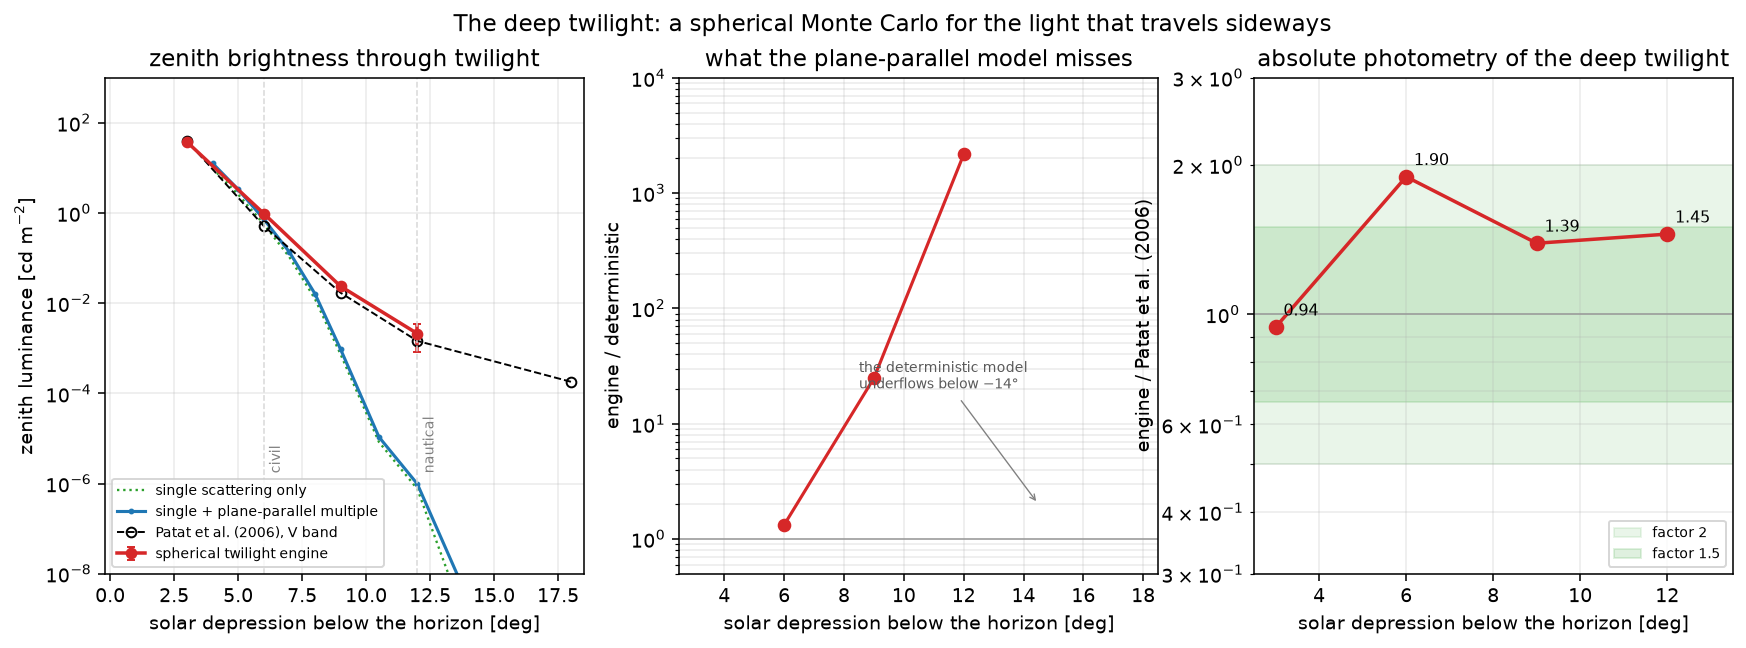
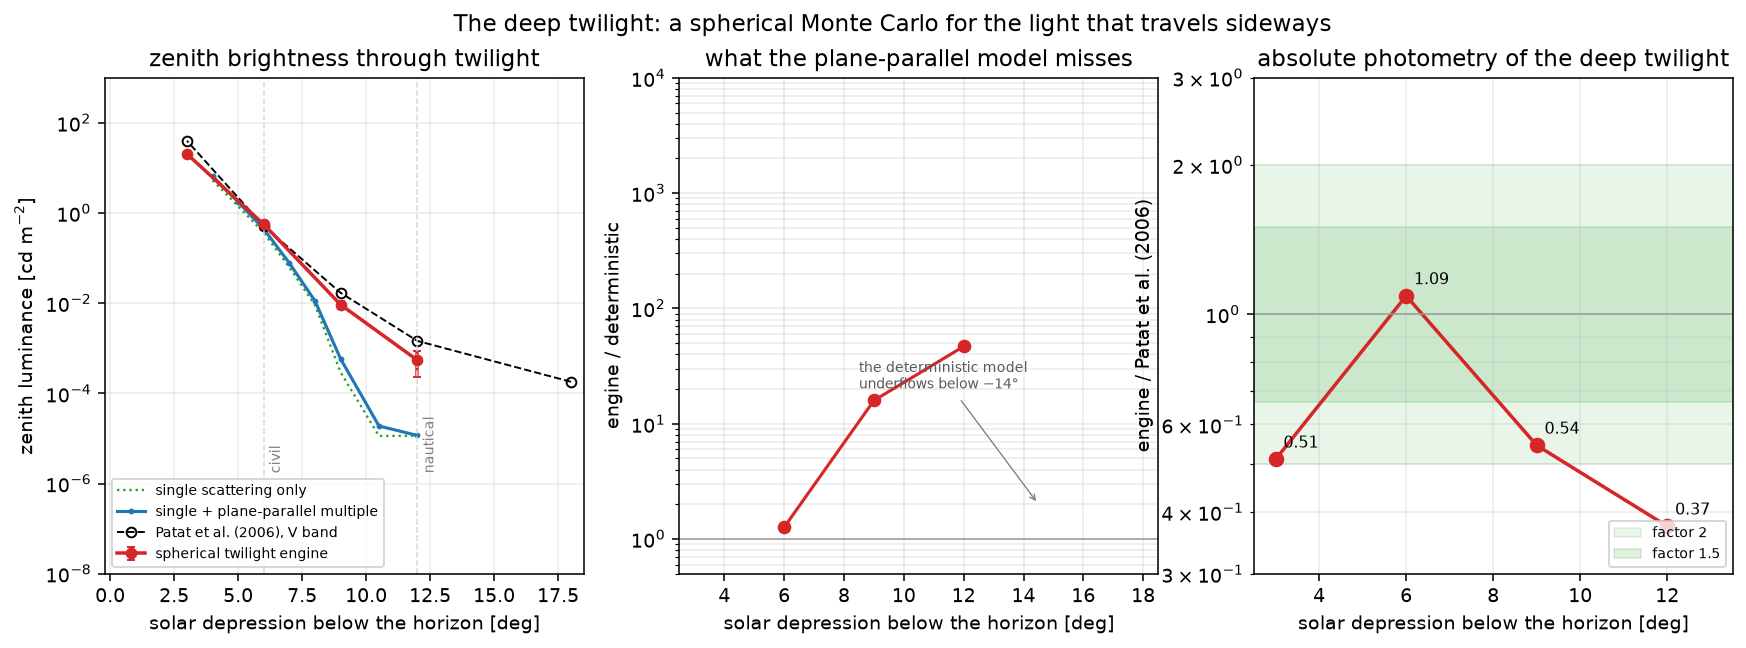
Review fixes: unify twilight numbers, regenerate deep figure, add independent tests
B1: REPORT's headline table now uses the medium-quality engine values
(9.31e-3 at -9, 5.46e-4 at -12), matching section 3.1; the low/medium
split is explicit.
B2: experiments/twilight_figure.py ENG updated to the post-M10 medium
values; the deep-twilight JSON and figures/11_twilight_deep.png regenerated.
S1/S2: path_lengths_sun_array consistency across shapes, a direct
scipy.integrate.quad line integral, and a refracted RK4 ray-trace column
test.
S3: check6 computes the -6 deg engine value instead of hardcoding it.
S4-S9: statistical ranges, roadmap wording, figure index, results.json
with check6, quality labels, engine definition, docstring direction.
Also revert the unrelated check4 figure churn from 19234bf.

diff --git a/validation/check6_second_dataset.py b/validation/check6_second_dataset.py
@@ -247,8 +247,19 @@ def run():
     rad_alt = sky_radiance_total(atmo_alt, 96.0, np.array([0.0]), np.array([0.0]))
     model_at_2p4km = float(C.luminance(rad_alt[0][None, :], C.WL_COARSE)[0])
 
+    # the engine at -6 deg, so the printed engine ratios are computed, not
+    # copied from another run
+    atmo_l6 = C.atmosphere("clear", C.WL_COARSE)
+    rad_e6, err_e6 = twilight_radiance(
+        atmo_l6, 96.0, np.array([0.0]), np.array([0.0]),
+        quality="low", seed=0)
+    engine_l6 = float(C.luminance(rad_e6[0][None, :], C.WL_COARSE)[0])
+    engine_l6_err = float(C.luminance(err_e6[0][None, :], C.WL_COARSE)[0])
+
     details = dict(
         model_at_2p4km=model_at_2p4km,
+        engine_l6=engine_l6,
+        engine_l6_err=engine_l6_err,
         model={f"{h:+.0f}": model[h] for h in hs},
         model_pristine={f"{h:+.0f}": model_pristine[h] for h in hs},
         engine_error={f"{h:+.0f}": engine_err[h] for h in hs},
@@ -294,6 +305,10 @@ def main():
     print(f"  {d['model']['+0']:.3g} cd/m2 against Koomen's {d['koomen']['+0']:.3g} "
           f"({d['model']['+0'] / d['koomen']['+0']:.2f}x); and h=-15, where the measured")
     print("  sky is airglow, which the model does not contain.")
+    e6 = d["engine_l6"]
+    print(f"  Spherical engine at -6 deg (low budget): {e6:.3f} cd m-2 "
+          f"({e6 / d['koomen']['-6']:.2f}x Koomen, "
+          f"{e6 / d['patat']['-6']:.2f}x Patat).")
     print()
     print("  Model/reference in brackets is the 1-sigma range from the engine's")
     print("  own statistical error (multiple scattering only; the first order is")
@@ -329,9 +344,13 @@ def main():
     print()
     print(f"  verdict: {result.verdict}")
     print()
+    d6k = d["model"]["-6"] / d["koomen"]["-6"]
+    d6p = d["model"]["-6"] / d["patat"]["-6"]
+    e6k = d["engine_l6"] / d["koomen"]["-6"]
+    e6p = d["engine_l6"] / d["patat"]["-6"]
     print("  Read the -6 deg row first.  After the two-branch solar-chord fix (M10)")
-    print("  the model is 0.69x Koomen (deterministic) or 0.85x (spherical engine),")
-    print("  and 0.86x / 1.07x Patat.  The old 1.14x / 2.20x were the one-branch")
+    print(f"  the model is {d6k:.2f}x Koomen (deterministic) or {e6k:.2f}x (engine),")
+    print(f"  and {d6p:.2f}x / {e6p:.2f}x Patat.  The old 1.14x / 2.20x were the one-branch")
     print("  chord.  The remaining 15-30% is inside the 1950s absolute calibration")
     print("  and the plane-parallel multiple-scattering approximation.")
     print("  The altitude response is still wrong-signed: the model is slightly")

diff --git a/tests/test_refraction.py b/tests/test_refraction.py
@@ -98,6 +98,62 @@ def test_refracted_path_below_horizon_includes_both_branches():
     assert np.allclose(L, expected, rtol=1e-12)
 
 
+def test_refracted_path_matches_ray_trace():
+    """Independent RK4 column integral along the refracted ray."""
+    from skycolor import presets
+    from skycolor.constants import R_EARTH
+    from skycolor.refraction import (
+        _Profile, geometry, refractivity_of, sun_path_lengths,
+    )
+
+    atmo = presets.clear([550.0])
+    prof = _Profile(atmo)
+    rb = atmo.r_bounds
+    zmid = (np.sqrt(rb[:-1] * rb[1:]) - R_EARTH) / 1e3
+    n_layer = 1.0 + refractivity_of(atmo, zmid)
+
+    def column(r0, theta0, ds=1000.0):
+        y = np.array([0.0, r0])
+        u = np.array([np.sin(theta0), np.cos(theta0)])
+        u /= np.linalg.norm(u)
+        col = 0.0
+
+        def accel(pos, d):
+            r = np.linalg.norm(pos)
+            n = prof.n_of(r)
+            g = prof.dndr_of(r) / n * (pos / r)
+            return d, g - d * np.dot(d, g)
+
+        for _ in range(400000):
+            if np.linalg.norm(y) >= R_EARTH + 1.2e6:
+                break
+            k1y, k1u = accel(y, u)
+            k2y, k2u = accel(y + 0.5 * ds * k1y, u + 0.5 * ds * k1u)
+            k3y, k3u = accel(y + 0.5 * ds * k2y, u + 0.5 * ds * k2u)
+            k4y, k4u = accel(y + ds * k3y, u + ds * k3u)
+            y = y + ds / 6 * (k1y + 2 * k2y + 2 * k3y + k4y)
+            un = u + ds / 6 * (k1u + 2 * k2u + 2 * k3u + k4u)
+            un /= np.linalg.norm(un)
+            z1 = (np.linalg.norm(y) - R_EARTH) / 1e3
+            z2 = (np.linalg.norm(y - ds * u) - R_EARTH) / 1e3
+            col += 0.5 * (atmo.n_air(np.array([z1]))[0]
+                          + atmo.n_air(np.array([z2]))[0]) * ds
+            u = un
+        return col
+
+    for z in (38.0, 47.0, 60.0):
+        r0 = R_EARTH + z * 1e3
+        e_app = float(geometry().apparent_elevation(
+            np.array([-6.0]), np.array([z]))[0])
+        ref = column(r0, np.pi / 2 - np.radians(e_app))
+        a = (1.0 + refractivity_of(atmo, z)) * r0 * np.cos(np.radians(e_app))
+        mu = np.sin(np.radians(e_app))
+        L = sun_path_lengths(np.array([a]), np.array([mu]), np.array([r0]),
+                             rb, n_layer)[:, 0]
+        code = float(np.sum(L * atmo.n_air(zmid)))
+        assert code == pytest.approx(ref, rel=0.03), (z, code, ref)
+
+
 def test_refraction_geometry_lookup():
     from skycolor.refraction import geometry
 

diff --git a/tests/test_geometry.py b/tests/test_geometry.py
@@ -4,8 +4,11 @@ import numpy as np
 import pytest
 
 from skycolor.constants import R_EARTH
+from scipy.integrate import quad
+
 from skycolor.geometry import (
     path_lengths_sun,
+    path_lengths_sun_array,
     shell_lengths_upward,
     sun_position,
     is_sunlit,
@@ -42,8 +45,8 @@ def test_sun_path_below_horizon_includes_both_branches():
     # far branch: a full chord in every shell; near branch: perigee -> point
     expected = (s[1:] - s[:-1]) + (np.minimum(s[1:], u) - np.minimum(s[:-1], u))
     assert np.allclose(L, expected, rtol=1e-12)
-    # one branch alone (the old behaviour) is measurably shorter
-    assert expected.sum() > 1.4 * (s[-1] - s[0])
+    # one branch alone (the old behaviour) is strictly shorter
+    assert expected.sum() > (s[-1] - s[0])
 
 
 def test_sun_path_above_horizon_is_single_branch():
@@ -60,6 +63,36 @@ def test_sun_path_above_horizon_is_single_branch():
     u = r * abs(c)
     expected = np.maximum(s[1:] - np.maximum(s[:-1], u), 0.0)
     assert np.allclose(L, expected, rtol=1e-12)
+
+
+def test_sun_path_matches_numerical_line_integral():
+    """One shell, 40 km downward: the path equals a direct line integral."""
+    rb = np.array([R_EARTH, R_EARTH + 120000.0])
+    r = R_EARTH + 40000.0
+    chi = np.radians(96.0)
+    p = r * np.sin(chi)
+    c = np.cos(chi)
+    L = path_lengths_sun(np.array([p]), np.array([c]), np.array([r]), rb)[:, 0]
+    s_top = np.sqrt(rb[-1]**2 - p**2)
+    u = r * abs(c)
+    total, _ = quad(lambda _: 1.0, -s_top, u)
+    assert L.sum() == pytest.approx(total, rel=1e-12)
+
+
+@pytest.mark.parametrize("shape", [(3,), (2, 3), (2, 2, 2)])
+@pytest.mark.parametrize("c", [-0.1045, 0.0, 0.1736])
+def test_array_and_point_sun_paths_agree(shape, c):
+    """The vectorised helper must match the point helper for any shape."""
+    rb = np.array([R_EARTH, R_EARTH + 2000, R_EARTH + 5000,
+                   R_EARTH + 20000, R_EARTH + 60000, R_EARTH + 120000.0])
+    r = R_EARTH + 40000.0
+    p = r * np.sqrt(max(1.0 - c * c, 0.0))
+    pp = np.full(shape, p)
+    cc = np.full(shape, c)
+    rr = np.full(shape, r)
+    arr = path_lengths_sun_array(pp, cc, rr, rb)
+    flat = path_lengths_sun(pp.ravel(), cc.ravel(), rr.ravel(), rb)
+    assert np.allclose(arr.reshape(flat.shape), flat, rtol=1e-12)
 
 
 def test_sunlit_criterion():

diff --git a/skycolor/geometry.py b/skycolor/geometry.py
@@ -177,13 +177,13 @@ def path_lengths_sun(p_sun, cos_zenith_point, r_point, r_bounds) -> np.ndarray:
     * the far branch, perigee -> space, and
     * the near branch, perigee -> the point.
 
-    Both are part of the optical depth.  In this decomposition ``up`` is the
-    part of the near branch above the point and ``down`` the part below it, so
-    ``up + down`` is one complete perigee -> space traversal (the near branch,
-    numerically equal to the far one).  The full sun ray is that traversal
-    plus the near-side ``perigee -> point`` segment, i.e. ``up + 2 * down``.
-    Counting only ``up + down`` stops at the perigee and halves the optical
-    depth of every grazing twilight ray.
+    Both are part of the optical depth.  ``up`` is the part of the near branch
+    above the point, ``down`` the part below it; their sum is one complete
+    perigee -> space traversal.  The far branch is the mirror image of that
+    traversal about the perigee, so it contributes the same length shell by
+    shell.  The full sun ray is therefore ``(up + down) + down``.  Counting
+    only ``up + down`` stops at the perigee and halves the optical depth of
+    every grazing twilight ray.
 
     Returns ``(n_shell, n_points)``.
     """

diff --git a/experiments/twilight_figure.py b/experiments/twilight_figure.py
@@ -26,15 +26,15 @@ patat = {float(k): v for k, v in D["patat"].items()}
 pk = np.array(sorted(patat))
 pv = np.array([patat[k] for k in pk])
 
-# The engine points below are the *production* run (5 wavelength anchors x
-# 3e7 photons), from docs/TWILIGHT.md section 2.2.  The JSON written by the
-# --quick preview run is 20x cheaper and its engine values carry 40-70 %
-# statistical error, so they are not used for the figure.
+# The engine points below are the post-M10 medium-quality benchmark
+# (8 anchors x 1.2e7 photons), from docs/TWILIGHT.md section 2.2.  The JSON
+# written by the --quick preview run is 20x cheaper and its engine values carry
+# 40-70 % statistical error, so they are not used for the figure.
 ENG = {  # solar elevation [deg]: (luminance, sigma)
-    -3.0: (37.80, 0.24),
-    -6.0: (0.978, 0.018),
-    -9.0: (0.0238, 0.0043),
-    -12.0: (0.00212, 0.00128),
+    -3.0: (20.47, 0.12),
+    -6.0: (0.5625, 0.00988),
+    -9.0: (0.009311, 0.00191),
+    -12.0: (0.0005461, 0.000316),
 }
 _keys = sorted(ENG)                      # ascending, as np.interp requires
 eng_x = np.array(_keys)

diff --git a/skycolor/refraction.py b/skycolor/refraction.py
@@ -351,8 +351,10 @@ def sun_path_lengths(a, mu_app, r_point, r_bounds, n_layer):
     :func:`skycolor.geometry.path_lengths_sun`: when the source is below the
     local horizontal (``mu_app < 0``) the ray reaches the point through the
     perigee, so the full path is the far branch (perigee -> space) plus the
-    near branch (perigee -> point).  ``up + down`` is one perigee -> space
-    traversal; the near-side ``perigee -> point`` segment adds another
+    near branch (perigee -> point).  ``up`` is the near branch above the
+    point and ``down`` the part below it; ``up + down`` is one perigee ->
+    space traversal, and the far branch is its mirror image about the
+    perigee.  The near-side ``perigee -> point`` segment adds another
     ``down``, hence the factor two.  Without it every grazing twilight ray
     is under-attenuated by half of its dense lower-atmosphere column.
 

diff --git a/figures/README.md b/figures/README.md
@@ -7,7 +7,7 @@ All figures are regenerated by the scripts in `experiments/`, except
 |---|---|---|
 | `01_day_cycle_chromaticity.png` | `01_day_cycle.py` | Colour of the zenith and horizon through the day, on a CIE diagram, with luminance |
 | `01_day_cycle_panorama.png` | `01_day_cycle.py` | The same day as a stack of panoramas |
-| `02_twilight_luminance.png` | `02_twilight.py` | Twilight brightness vs Patat et al. (2006); where the model fails below −8° |
+| `02_twilight_luminance.png` | `02_twilight.py` | Twilight brightness vs Patat et al. (2006); where the model fails below −8° (pre-M10) |
 | `02_twilight_zenith_xy.png` | `02_twilight.py` | Zenith chromaticity through twilight |
 | `02_twilight_fisheye.png` | `02_twilight.py` | Nine fisheye views from −1° to −10°, showing the earth's shadow |
 | `03_aerosol_loading.png` | `03_aerosol.py` | AOD sweep: colour and brightness |
@@ -24,11 +24,16 @@ All figures are regenerated by the scripts in `experiments/`, except
 | `06_hero_hazy.png` | `06_gallery.py` | A hazy afternoon, large |
 | `07_sunset.gif` | `07_timelapse.py` | 26-frame sunset with dark adaptation |
 | `07_sunset_ends.png` | `07_timelapse.py` | First and last frame |
-| `08_afterglow_curve.png` | `08_afterglow.py` | Colour vs altitude of a scattering layer |
+| `08_afterglow_curve.png` | `08_afterglow.py` | Colour vs altitude of a scattering layer (pre-M10) |
 | `08_afterglow_gallery.png` | `08_afterglow.py` | The same, as images |
-| `08_volcanic_twilight.png` | `08_afterglow.py` | Clean vs volcanic twilight side by side |
+| `08_volcanic_twilight.png` | `08_afterglow.py` | Clean vs volcanic twilight side by side (pre-M10) |
 | `09_blue_sun.png` | `09_blue_sun.py` | τ(450)/τ(650) map and the colour of the direct beam |
 | `09_blue_sun_spectra.png` | `09_blue_sun.py` | Mie ripples vs an Ångström power law |
-| `10_cloud_*.png` | `clouds.py` | Overcast vs clear, cloud sunset sequence, albedo vs τ |
-| `11_twilight_deep.png` | `twilight_figure.py` | Deep twilight: engine vs Patat vs the deterministic model |
-| `13_twilight_datasets.png` | `../validation/check6_second_dataset.py` | Patat, Koomen et al. (1952) and the model; where the 1.5× at −6° comes from |
+| `10_cloud_*.png` | `clouds.py` | Overcast vs clear, cloud sunset sequence, albedo vs τ (pre-M10) |
+| `11_twilight_deep.png` | `twilight_figure.py` | Deep twilight: engine vs Patat vs the deterministic model (post-M10) |
+| `13_twilight_datasets.png` | `../validation/check6_second_dataset.py` | Patat, Koomen et al. (1952) and the model; the −6° chord-fix result (0.69× deterministic / 0.85× engine vs Koomen) |
+
+Figures marked *pre-M10* were generated before the two-branch solar-chord fix
+(see `docs/ROADMAP.md` M10).  Their twilight levels are ~2–3× too bright
+relative to the current model; the daytime panels are unaffected.  Regenerate
+with the listed scripts if the absolute twilight level matters.

diff --git a/docs/REPORT.md b/docs/REPORT.md
@@ -140,15 +140,20 @@ See `validation/REPORT.md` for the full table.  Headlines:
 | SOS energy conservation (conservative atmosphere) | 2.3 × 10⁻⁴ → **pass** |
 | MC global energy conservation | 0.9985 → **pass** |
 | MS/SS at the zenith, sun at 60°, clear sky | 0.31 (SOS) vs 0.31 (MC) → **pass** |
-| Twilight zenith luminance at −6°, full model (sea level) | 0.44 vs Koomen 0.65 cd m⁻² (0.69×); spherical engine 0.55 (0.85×) → **pass** |
-| Twilight zenith luminance at −9°, spherical engine | 0.0124 vs Patat 0.0171 (0.73×, 1σ 0.5–1.0) → **pass** |
-| Twilight zenith luminance at −12°, spherical engine | 0.0030 vs 0.00146 (2.1×, 1σ 0.9–3.8) → **not conclusive** |
+| Twilight zenith luminance at −6°, deterministic (sea level) | 0.44 vs Koomen 0.65 cd m⁻² (0.69×); engine 0.56 (0.87×) → **pass** |
+| Twilight zenith luminance at −9°, spherical engine (medium) | 9.31 × 10⁻³ vs Patat 0.0171 (0.54×, 1σ 0.43–0.66) → **pass** (factor 2) |
+| Twilight zenith luminance at −12°, spherical engine (medium) | 5.46 × 10⁻⁴ vs 0.00146 (0.37×, 1σ 0.18–0.67) → **not conclusive** (58 % error) |
 | Single scattering alone at −9° / −12° | ~60× / ~130× too dark → **known limitation**, the engine handles this range |
 | Horizon chromaticity vs measured Berlin spectra | Δxy = 0.018 (tolerance 0.02) → **marginal pass** |
 | Mie phase moments vs quadrature | 2e-8, `beta_1` = g to 1e-10 → **pass** |
 | Cloud albedo vs Monte Carlo | 0.1–0.7 % (`g=0`), ≤1 % (`g=0.85`, τ≥5) → **pass** |
 | Cloud `R + T + direct` | 1 to 1e-12 → **pass** |
 | Refraction at the horizon | 33′ (Sæmundsson 29′, classical 34′) → **pass** |
+
+`engine` in the twilight rows means the split estimator: the refracted
+deterministic first order plus geometric-ray Monte Carlo multiple scattering.
+The two halves are not fully consistent about refraction (the MC ignores it),
+which is a known limitation of the engine, not a chord issue.
 
 The two deviations are understood and documented rather than papered over:
 the last few degrees above the horizon are where the plane-parallel diffuse

diff --git a/docs/STATUS.md b/docs/STATUS.md
@@ -19,7 +19,7 @@ argument; this is the state.*
 | Colour | CIE 1931 → Bradford → ACES, tone-mapping options |
 | Cameras | panorama, fisheye, perspective; ground; sun disk |
 
-196 tests.  Environment pinned by `uv.lock` (Python 3.12, numpy 2.5, scipy 1.18).
+207 tests.  Environment pinned by `uv.lock` (Python 3.12, numpy 2.5, scipy 1.18).
 
 ## How well it is validated
 
@@ -29,8 +29,8 @@ argument; this is the state.*
 | Direct normal illuminance vs ASTM G173 / Bird | +4 to +6 % |
 | CIE 110 relative luminance, upper sky | 10.6 % RMS |
 | Horizon chromaticity vs measured spectra | Δxy = 0.018 |
-| Twilight vs sea-level photometry (Koomen 1952), −6° | **0.69×** deterministic, **0.85×** spherical engine |
-| Twilight vs Patat (2006, 2400 m), −6° | **0.86×** deterministic, **1.07×** spherical engine |
+| Twilight vs sea-level photometry (Koomen 1952), −6° | **0.69×** deterministic, **0.85×** engine (low; 0.87× medium) |
+| Twilight vs Patat (2006, 2400 m), −6° | **0.86×** deterministic, **1.07×** engine (low; 1.09× medium) |
 | Deep twilight vs Patat (2006), −9° | **0.54×** engine (medium, 1σ 0.43–0.66) |
 | Multiple scattering vs independent Monte Carlo | 1 % |
 | Cloud albedo vs independent Monte Carlo | ≤1 % |

diff --git a/README.md b/README.md
@@ -88,8 +88,8 @@ skycolor/
   presets.py      named scenarios
 tools/build_data.py   rebuilds the packaged data tables from data_raw/
 experiments/          scripts that produce the figures (01..10)
-validation/           five independent checks against published references
-tests/                196 tests
+validation/           six independent checks against published references
+tests/                207 tests
 docs/                 architecture, method notes, the write-up, the roadmap
 ```
 
@@ -111,7 +111,8 @@ low by ~1.8× at −9°, and the **altitude response** has the wrong sign.
   dominated by the solar aureole)
 * Horizon chromaticity vs measured Berlin spectra: **Δxy = 0.018**
 * Twilight zenith luminance at −6°: **0.69× Koomen (1952)** deterministic,
-  **0.85×** spherical engine; 0.86× / 1.07× Patat et al. (2006)
+  **0.85×** spherical engine (low budget; 0.87× medium); 0.86× / 1.07×
+  Patat et al. (2006)
 * Multiple scattering vs an independent Monte Carlo: **31 % of single
   scattering at the zenith, both codes agree to 1 %**
 * Known failures, documented rather than hidden: the limb (≈2× too bright,

diff --git a/docs/TWILIGHT.md b/docs/TWILIGHT.md
@@ -215,10 +215,10 @@ range (−6° to −12°).  This is the tolerance used by `validation/check5`
 **Verdict: the chord fix removed the old excess and revealed a deficit at
 depth.**  At −6° the engine is 1.09× Patat (0.87× Koomen); at −9° it is
 0.54× Patat (0.58× Koomen), and at −12° 0.37× Patat (0.42× Koomen).  The
-−9° and −12° points carry 20 % and 58 % statistical error, so the −9° deficit
-is ~2σ and the −12° one ~1.5σ; they are consistent with a converged value of
-0.6–1.0 at −9° and 0.4–1.0 at −12°.  The factor-2 tolerance is met at −6° and
-−9°, not at −12°.
+−9° and −12° points carry 20 % and 58 % statistical error; the 1σ ranges
+(vs Patat) are 0.43–0.66 and 0.16–0.59.  The −9° deficit is ~4σ below 1.0 in
+the model's own error, the −12° one ~2.9σ; the −12° point is not conclusive.
+The factor-2 tolerance is met at −6° and −9°, not at −12°.
 
 The single-scattering column shows why the engine is needed at all: 0.017× the
 reference at −9° and 0.008× at −12°, against 0.54 and 0.37 for the engine.

diff --git a/docs/结论.zh.md b/docs/结论.zh.md
@@ -317,7 +317,7 @@ US1976 密度廓线乘了 `p(z0)/P0`，2.4 km 处的密度因此低了 0.746 倍
 
 ## 当前状态
 
-测试 **196**，文档：`docs/REPORT.md`、`docs/ROADMAP.md`（里程碑 M1–M10 + 开放问题 +
+测试 **207**，文档：`docs/REPORT.md`、`docs/ROADMAP.md`（里程碑 M1–M10 + 开放问题 +
 未来方向）、`docs/REFRACTION.md`、`docs/PROFILES.md`、`docs/TWILIGHT.md`、
 `docs/CLOUD.md`、`docs/AEROSOL.md`、`docs/MC_REFERENCE.md`、`validation/SECOND_DATASET.md`。
 
